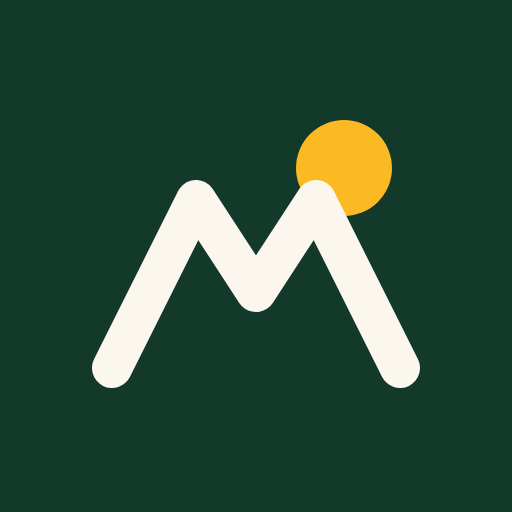
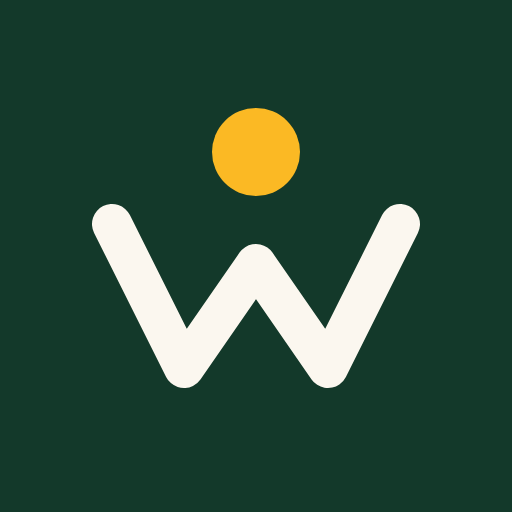
Renommage en Workers, première release du groupe Melanyne (v1.0.0)
Nouveau logo « W », signature « par Melanyne », numéro de version
affiché, journal des versions.

Claude-Session: https://claude.ai/code/session_019eKP8CmP4RCGMSSZAZSRHc

Changed region(s): [[0.1562, 0.1875, 0.8438, 0.7812]]

diff --git a/src/data/articles.ts b/src/data/articles.ts
@@ -33,7 +33,7 @@ export const ARTICLES: Article[] = [
       {
         titre: "Adaptez à chaque offre",
         texte: [
-          "Reprenez les mots-clés de l'annonce dans votre CV : si l'offre demande « SYSCOHADA » et « Sage », ces termes doivent apparaître. Sur Melanyne Work, renseignez vos compétences dans votre profil pour voir instantanément votre score de compatibilité avec chaque offre.",
+          "Reprenez les mots-clés de l'annonce dans votre CV : si l'offre demande « SYSCOHADA » et « Sage », ces termes doivent apparaître. Sur Workers, renseignez vos compétences dans votre profil pour voir instantanément votre score de compatibilité avec chaque offre.",
         ],
       },
     ],
@@ -85,7 +85,7 @@ export const ARTICLES: Article[] = [
       {
         titre: "Connaître le marché",
         texte: [
-          "Avant tout entretien, consultez le baromètre des salaires de Melanyne Work : il agrège les fourchettes publiées dans les offres par secteur et par ville. Une même fonction peut être rémunérée très différemment à Douala, à Garoua ou dans une ONG internationale.",
+          "Avant tout entretien, consultez le baromètre des salaires de Workers : il agrège les fourchettes publiées dans les offres par secteur et par ville. Une même fonction peut être rémunérée très différemment à Douala, à Garoua ou dans une ONG internationale.",
         ],
       },
       {
@@ -127,7 +127,7 @@ export const ARTICLES: Article[] = [
       {
         titre: "Que faire ?",
         texte: [
-          "Vérifiez l'existence de l'entreprise, son adresse et son numéro de contribuable. Ne transmettez jamais la copie de vos pièces d'identité avant un entretien réel. Si une annonce vous semble suspecte sur Melanyne Work, signalez-la : nous la retirerons après vérification.",
+          "Vérifiez l'existence de l'entreprise, son adresse et son numéro de contribuable. Ne transmettez jamais la copie de vos pièces d'identité avant un entretien réel. Si une annonce vous semble suspecte sur Workers, signalez-la : nous la retirerons après vérification.",
         ],
       },
     ],
@@ -143,7 +143,7 @@ export const ARTICLES: Article[] = [
       {
         titre: "Le stage comme porte d'entrée",
         texte: [
-          "Beaucoup d'entreprises camerounaises recrutent en priorité leurs anciens stagiaires. Un stage bien réalisé vaut souvent mieux qu'un diplôme supplémentaire. Filtrez les offres « Stage » et « Alternance » sur Melanyne Work et créez une alerte pour ne rien manquer.",
+          "Beaucoup d'entreprises camerounaises recrutent en priorité leurs anciens stagiaires. Un stage bien réalisé vaut souvent mieux qu'un diplôme supplémentaire. Filtrez les offres « Stage » et « Alternance » sur Workers et créez une alerte pour ne rien manquer.",
         ],
       },
       {

diff --git a/src/pages/Accueil.tsx b/src/pages/Accueil.tsx
@@ -12,6 +12,7 @@ import { compatibilite } from "@/lib/recherche";
 import { useEspace } from "@/lib/store";
 import { fourchette, pluriel } from "@/lib/format";
 import useSeo from "@/lib/useSeo";
+import { CONFIG } from "@/lib/config";
 
 const POPULAIRES = ["Développeur", "Comptable", "Stage", "Infirmier", "Commercial", "Bilingue"];
 
@@ -35,7 +36,7 @@ export default function Accueil() {
           <div className="animate-monte">
             <span className="inline-flex items-center gap-2 rounded-full border border-creme/15 bg-creme/5 px-3 py-1.5 text-sm text-creme/80">
               <span className="h-2 w-2 animate-pulse rounded-full bg-soleil-400" />
-              {pluriel(OFFRES.length, "offre en ligne", "offres en ligne")} · 10 régions
+              Nouveau : Workers {CONFIG.version.replace(/\.0$/, "")} par {CONFIG.groupe} · {pluriel(OFFRES.length, "offre", "offres")}
             </span>
             <h1 className="texte-equilibre mt-6 text-[2.6rem] font-bold leading-[1.02] sm:text-6xl lg:text-[4.4rem]">
               Le job qui vous ressemble, <span className="relative whitespace-nowrap text-soleil-400">de Douala<svg className="absolute -bottom-2 left-0 w-full" viewBox="0 0 200 12" preserveAspectRatio="none" aria-hidden="true"><path d="M2 9 C 50 2, 150 2, 198 8" stroke="#fbb924" strokeWidth="4" fill="none" strokeLinecap="round" /></svg></span> à Maroua.
@@ -153,7 +154,7 @@ export default function Accueil() {
             <p className="surtitre">Pensé pour vous</p>
             <h2 className="texte-equilibre mt-2 text-3xl font-bold sm:text-5xl">Moins de recherche, plus d'entretiens.</h2>
             <p className="mt-5 text-lg text-encre/65">
-              Créez votre profil en une minute. Melanyne Work calcule votre compatibilité avec chaque offre, directement dans votre navigateur : vos données restent chez vous.
+              Créez votre profil en une minute. Workers calcule votre compatibilité avec chaque offre, directement dans votre navigateur : vos données restent chez vous.
             </p>
             <Link to="/mon-espace?onglet=profil" className="btn-primaire mt-8">
               <Sparkles className="h-4 w-4" /> {profil ? "Mettre à jour mon profil" : "Créer mon profil"}

diff --git a/src/components/DialogueCandidature.tsx b/src/components/DialogueCandidature.tsx
@@ -16,7 +16,7 @@ export default function DialogueCandidature({ offre, ouverte, fermer }: { offre:
     if (offre.candidature.url) {
       window.open(offre.candidature.url, "_blank", "noopener");
     } else if (offre.candidature.email && !offre.demo) {
-      const corps = `Bonjour,\n\nJe vous adresse ma candidature pour le poste « ${offre.titre} » publié sur Melanyne Work.\n\n${form.message}\n\nVous trouverez mon CV en pièce jointe.\n\n${form.nom}\n${form.tel}\n${form.email}`;
+      const corps = `Bonjour,\n\nJe vous adresse ma candidature pour le poste « ${offre.titre} » publié sur Workers.\n\n${form.message}\n\nVous trouverez mon CV en pièce jointe.\n\n${form.nom}\n${form.tel}\n${form.email}`;
       window.location.href = `mailto:${offre.candidature.email}?subject=${encodeURIComponent(`Candidature — ${offre.titre}`)}&body=${encodeURIComponent(corps)}`;
     }
     setEnvoye(true);
@@ -76,7 +76,7 @@ export default function DialogueCandidature({ offre, ouverte, fermer }: { offre:
             {offre.candidature.url ? <ExternalLink className="mt-0.5 h-4 w-4 shrink-0" /> : <Mail className="mt-0.5 h-4 w-4 shrink-0" />}
             {offre.candidature.url
               ? "Vous serez redirigé vers le site du recruteur pour joindre votre CV."
-              : "Votre messagerie s'ouvrira avec un message pré-rempli ; vous y joindrez votre CV. Melanyne Work ne stocke aucune donnée sur ses serveurs."}
+              : "Votre messagerie s'ouvrira avec un message pré-rempli ; vous y joindrez votre CV. Workers ne stocke aucune donnée sur ses serveurs."}
           </p>
           <button type="submit" className="btn-primaire w-full !py-3.5">
             Envoyer ma candidature

diff --git a/src/components/Logo.tsx b/src/components/Logo.tsx
@@ -1,19 +1,25 @@
+// Marque Workers : un « W » formé de deux vallées, sous le soleil du groupe Melanyne.
 export function Marque({ className = "h-9 w-9" }: { className?: string }) {
   return (
     <svg viewBox="0 0 64 64" className={className} aria-hidden="true">
       <rect width="64" height="64" rx="16" fill="#13392a" />
-      <circle cx="45" cy="19" r="7" fill="#fbb924" />
-      <path d="M10 50 L23 24 L32 38 L41 24 L54 50" fill="none" stroke="#fbf7ef" strokeWidth="6" strokeLinecap="round" strokeLinejoin="round" />
+      <circle cx="32" cy="17" r="6.5" fill="#fbb924" />
+      <path d="M9 26 L20 49 L32 31 L44 49 L55 26" fill="none" stroke="#fbf7ef" strokeWidth="6" strokeLinecap="round" strokeLinejoin="round" />
     </svg>
   );
 }
 
-export default function Logo({ clair = false }: { clair?: boolean }) {
+export default function Logo({ clair = false, signature = true }: { clair?: boolean; signature?: boolean }) {
   return (
     <span className="flex items-center gap-2.5">
       <Marque />
-      <span className={`font-display text-[1.35rem] font-bold leading-none tracking-tight ${clair ? "text-creme" : "text-encre"}`}>
-        melanyne<span className="text-soleil-500">.</span>work
+      <span className="flex flex-col leading-none">
+        <span className={`font-display text-[1.4rem] font-bold tracking-tight ${clair ? "text-creme" : "text-encre"}`}>
+          workers<span className="text-soleil-500">.</span>
+        </span>
+        {signature && (
+          <span className={`mt-0.5 text-[10px] font-semibold uppercase tracking-[.2em] ${clair ? "text-creme/55" : "text-encre/45"}`}>par Melanyne</span>
+        )}
       </span>
     </span>
   );

diff --git a/index.html b/index.html
@@ -3,16 +3,16 @@
   <head>
     <meta charset="UTF-8" />
     <meta name="viewport" content="width=device-width, initial-scale=1.0" />
-    <title>Melanyne Work — Offres d'emploi au Cameroun</title>
-    <meta name="description" content="Melanyne Work, le job board camerounais : des milliers d'opportunités à Douala, Yaoundé, Bafoussam, Garoua et dans les 10 régions. CDI, CDD, stages, alternance." />
+    <title>Workers par Melanyne — Offres d'emploi au Cameroun</title>
+    <meta name="description" content="Workers, le job board camerounais du groupe Melanyne : des milliers d'opportunités à Douala, Yaoundé, Bafoussam, Garoua et dans les 10 régions. CDI, CDD, stages, alternance." />
     <meta name="theme-color" content="#13392a" />
     <link rel="icon" type="image/svg+xml" href="%BASE_URL%favicon.svg" />
     <link rel="apple-touch-icon" href="%BASE_URL%icon-512.png" />
     <link rel="manifest" href="%BASE_URL%manifest.webmanifest" />
     <meta property="og:type" content="website" />
     <meta property="og:locale" content="fr_CM" />
-    <meta property="og:site_name" content="Melanyne Work" />
-    <meta property="og:title" content="Melanyne Work — Offres d'emploi au Cameroun" />
+    <meta property="og:site_name" content="Workers" />
+    <meta property="og:title" content="Workers par Melanyne — Offres d'emploi au Cameroun" />
     <meta property="og:description" content="Trouvez le job qui vous ressemble, de Douala à Maroua." />
     <meta property="og:image" content="%BASE_URL%og-image.png" />
     <meta name="twitter:card" content="summary_large_image" />

diff --git a/src/components/PiedDePage.tsx b/src/components/PiedDePage.tsx
@@ -14,8 +14,8 @@ export default function PiedDePage() {
           <Logo clair />
           <p className="mt-4 max-w-xs text-creme/65">{CONFIG.slogan}</p>
           <p className="mt-6 text-sm text-creme/50">
-            Fait au Cameroun, pour le Cameroun. <br />
-            Hébergé sur GitHub Pages.
+            Une application du groupe {CONFIG.groupe}. <br />
+            Fait au Cameroun, pour le Cameroun.
           </p>
         </div>
         <div>
@@ -43,7 +43,7 @@ export default function PiedDePage() {
           </ul>
         </div>
         <div>
-          <h3 className="text-sm font-bold uppercase tracking-widest text-soleil-300">Melanyne Work</h3>
+          <h3 className="text-sm font-bold uppercase tracking-widest text-soleil-300">Workers</h3>
           <ul className="mt-4 space-y-2 text-creme/70">
             <li><Link className="hover:text-white" to="/recruteurs">Publier une offre</Link></li>
             <li><Link className="hover:text-white" to="/salaires">Baromètre des salaires</Link></li>
@@ -55,7 +55,7 @@ export default function PiedDePage() {
         </div>
       </div>
       <div className="container relative flex flex-col gap-2 border-t border-creme/10 py-6 text-sm text-creme/45 sm:flex-row sm:justify-between">
-        <span>© {new Date().getFullYear()} Melanyne Work</span>
+        <span>© {new Date().getFullYear()} Groupe {CONFIG.groupe} · Workers v{CONFIG.version}</span>
         <span>Rappel : un recruteur sérieux ne vous demandera jamais d'argent pour un emploi.</span>
       </div>
     </footer>

diff --git a/src/pages/PageLegale.tsx b/src/pages/PageLegale.tsx
@@ -11,7 +11,7 @@ export default function PageLegale({ type }: { type: "mentions" | "confidentiali
         {mentions ? (
           <>
             <h2 className="mb-3 mt-8 text-xl font-bold">Éditeur</h2>
-            <p>{CONFIG.nom} — à compléter : raison sociale, adresse du siège, numéro de contribuable (NIU), responsable de la publication.</p>
+            <p>{CONFIG.nom}, application éditée par le groupe {CONFIG.groupe} — à compléter : raison sociale, adresse du siège, numéro de contribuable (NIU), responsable de la publication.</p>
             <p>Contact : {CONFIG.contact}</p>
             <h2 className="mb-3 mt-8 text-xl font-bold">Hébergement</h2>
             <p>Site statique hébergé par GitHub Pages (GitHub, Inc., 88 Colin P. Kelly Jr. Street, San Francisco, CA 94107, États-Unis).</p>

diff --git a/vite.config.ts b/vite.config.ts
@@ -1,12 +1,16 @@
 import { defineConfig } from "vite";
 import react from "@vitejs/plugin-react";
 import { fileURLToPath, URL } from "node:url";
+import { readFileSync } from "node:fs";
 
-// BASE_PATH est fourni par le workflow GitHub Pages (ex. "/melanyne-work/").
+const { version } = JSON.parse(readFileSync(new URL("./package.json", import.meta.url), "utf8"));
+
+// BASE_PATH est fourni par le workflow GitHub Pages (ex. "/workers/").
 // Pour un domaine personnalisé, laisser "/".
 export default defineConfig({
   base: process.env.BASE_PATH ?? "/",
   plugins: [react()],
+  define: { __APP_VERSION__: JSON.stringify(version) },
   resolve: {
     alias: { "@": fileURLToPath(new URL("./src", import.meta.url)) },
   },

diff --git a/src/lib/config.ts b/src/lib/config.ts
@@ -1,10 +1,12 @@
 // Réglages du site. Modifiables via les variables VITE_* (voir .env.example).
 export const CONFIG = {
-  nom: "Melanyne Work",
+  nom: "Workers",
+  groupe: "Melanyne",
+  version: __APP_VERSION__,
   slogan: "Le travail qui vous ressemble, partout au Cameroun.",
-  depotGithub: (import.meta.env.VITE_GITHUB_REPO as string | undefined) ?? "alibotBD1/melanyne-work",
+  depotGithub: (import.meta.env.VITE_GITHUB_REPO as string | undefined) ?? "alibotBD1/workers",
   modeDemo: (import.meta.env.VITE_DEMO ?? "true") !== "false",
-  contact: "contact@melanyne.work",
+  contact: "contact@votre-domaine.cm",
 };
 
 /** URL d'une nouvelle issue GitHub pré-remplie avec le formulaire « nouvelle offre ». */

diff --git a/src/lib/useSeo.ts b/src/lib/useSeo.ts
@@ -3,7 +3,7 @@ import { useEffect } from "react";
 /** Met à jour le titre de l'onglet et la meta description. */
 export default function useSeo(titre: string, description?: string) {
   useEffect(() => {
-    document.title = titre ? `${titre} · Melanyne Work` : "Melanyne Work — Offres d'emploi au Cameroun";
+    document.title = titre ? `${titre} · Workers` : "Workers par Melanyne — Offres d'emploi au Cameroun";
     if (description) document.querySelector('meta[name="description"]')?.setAttribute("content", description);
   }, [titre, description]);
 }

diff --git a/src/pages/Recruteurs.tsx b/src/pages/Recruteurs.tsx
@@ -27,7 +27,7 @@ const VIDE = {
 };
 
 export default function Recruteurs() {
-  useSeo("Recruteurs : publiez une offre gratuitement", "Publiez gratuitement vos offres d'emploi sur Melanyne Work et touchez les talents de tout le Cameroun.");
+  useSeo("Recruteurs : publiez une offre gratuitement", "Publiez gratuitement vos offres d'emploi sur Workers et touchez les talents de tout le Cameroun.");
   const [f, setF] = useState(VIDE);
   const set = (k: keyof typeof VIDE) => (e: { target: { value: string } }) => setF({ ...f, [k]: e.target.value });
 

diff --git a/src/components/Entete.tsx b/src/components/Entete.tsx
@@ -40,7 +40,7 @@ export default function Entete() {
       )}
       <header className={`sticky top-0 z-40 transition ${defile ? "border-b border-encre/10 bg-creme/85 backdrop-blur-lg" : "bg-creme"}`}>
         <div className="container flex h-[68px] items-center justify-between gap-4">
-          <Link to="/" aria-label="Melanyne Work, accueil">
+          <Link to="/" aria-label="Workers, accueil">
             <Logo />
           </Link>
           <nav className="hidden items-center gap-1 lg:flex" aria-label="Navigation principale">
